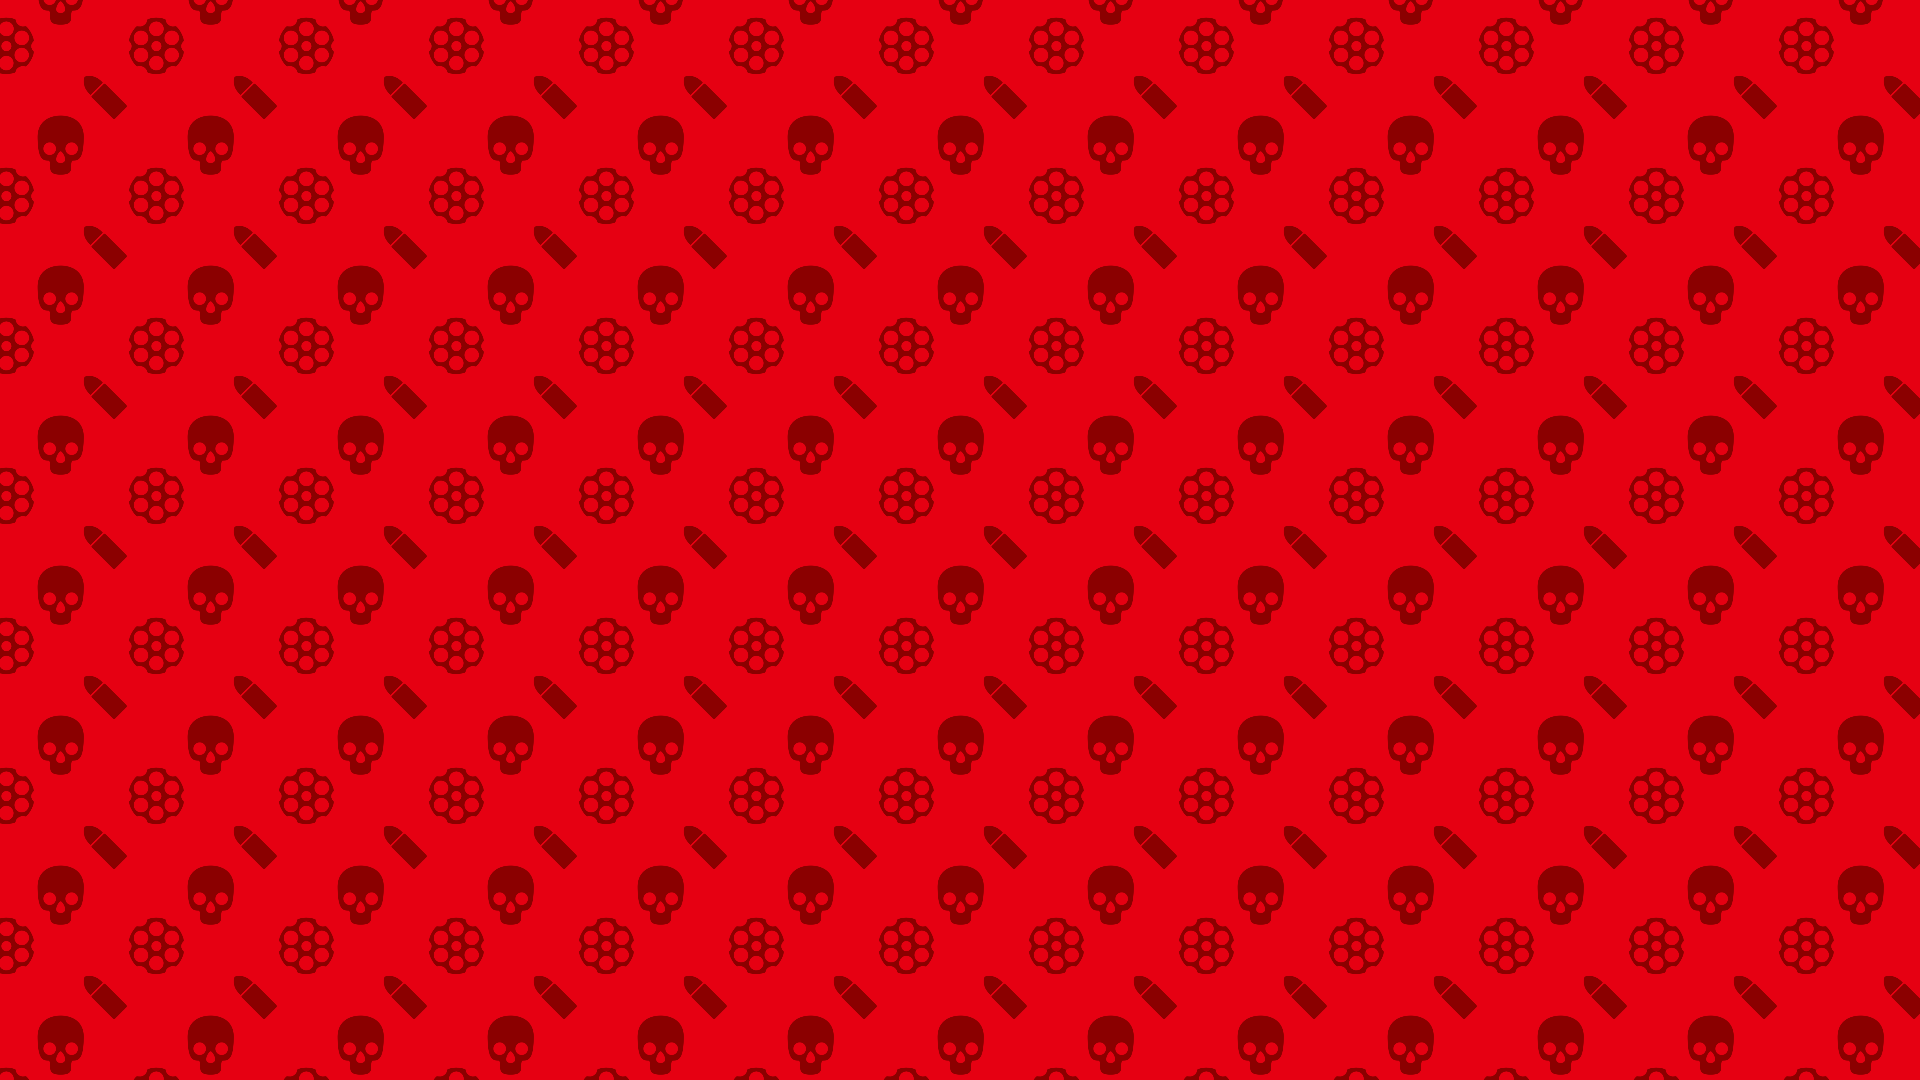
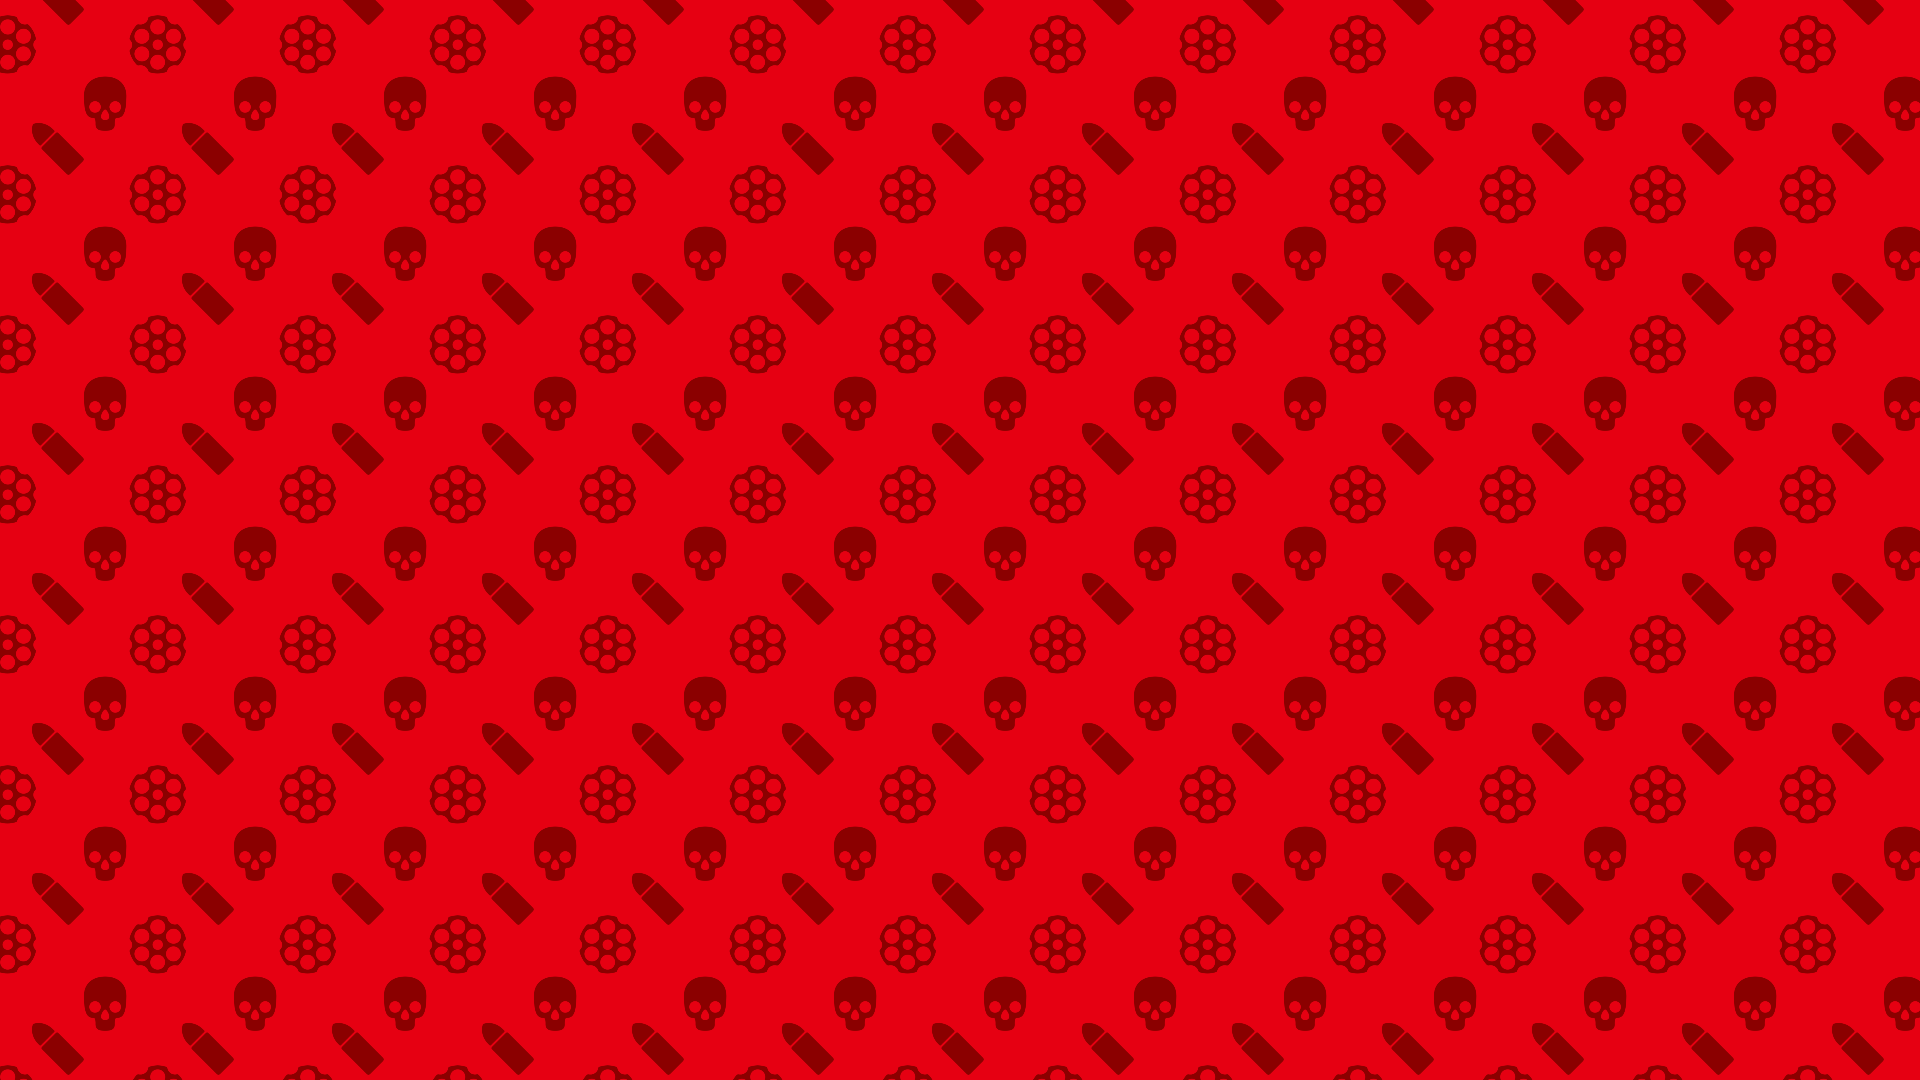
Update

diff --git a/Code/CSS/global.css b/Code/CSS/global.css
@@ -1,9 +1,8 @@
 @import url('fonts.css');
 
 /* Body */
-body, html 
+body 
 {
-    /* background: url('../../Images/Pattern.png') no-repeat center center fixed; */
     margin: 0;
     padding: 0;
     height: 100%;
@@ -11,7 +10,8 @@ body, html
 }
 
 /* The animated infinite background */
-.background {
+.background 
+{
   position: fixed;
   top: -10px;
   left: 0;
@@ -25,12 +25,15 @@ body, html
   animation: scroll-bg 30s linear infinite;
 }
 
-@keyframes scroll-bg {
-  0% {
+@keyframes scroll-bg 
+{
+  0% 
+  {
     background-position: 0 0;
   }
-  100% {
-    background-position: -2000px 2000px;
+  100% 
+  {
+    background-position: -1000px 1000px;
   }
 }
 
@@ -38,43 +41,43 @@ body, html
     /* Main page title */    
     h1 
     {
-        margin-top: 0;
-        margin-bottom: 0.3em;
+        margin-top: 0em;
+        margin-bottom: 0em;
         font-size: 64px; 
     }
     /* Section title */
     h2  
     {
-        margin-top: 0.5em;
-        margin-bottom: 0.2em;
+        margin-top: 0em;
+        margin-bottom: 0em;
         font-size: 40px;
     }
     /* Subsection title */ 
     h3 
     { 
-        margin-top: 0.5em;
-        margin-bottom: 0.2em;
+        margin-top: 0em;
+        margin-bottom: 0em;
         font-size: 32px; 
     }
     /* Smaller subsection */ 
     h4 
     {
-        margin-top: 0.5em;
-        margin-bottom: 0.2em;
+        margin-top: 0em;
+        margin-bottom: 0em;
         font-size: 24px;
     }
     /* Minor heading */
     h5 
     {
-        margin-top: 0.5em;
-        margin-bottom: 0.2em;
+        margin-top: 0em;
+        margin-bottom: 0em;
         font-size: 20px; 
     }
     /* Smallest heading */
     h6 
     {
-        margin-top: 0.5em;
-        margin-bottom: 0.2em;
+        margin-top: 0em;
+        margin-bottom: 0em;
         font-size: 16px; 
     }
 /* Header End */ 
@@ -82,8 +85,8 @@ body, html
 /* Paragraph */
 p
 {
-    margin-top: 0.5em;
-    margin-bottom: 0.5em;
+    margin-top: 0em;
+    margin-bottom: 0em;
     font-size: 16px;
 }
 
@@ -129,7 +132,7 @@ div
 {
     display: flex;
 }  
-.box 
+.block 
 {
     background-color: #fdfdfd;
     border-radius: 10px;    

diff --git a/index.html b/index.html
@@ -37,15 +37,18 @@
     <div class="background"></div>  
 
     <!-- Top -->
-    <div class="fade-image animate-on-scroll">
+    <div>
       <img class="scale" src="Images/SiteLogo.png" alt="Main logo">
     </div>
 
     <!-- Middle -->
-    <div class="fade-in-image">
+    <div>
 
       <div>
-        <div class="box">
+        <div class="block">
+          <h4 class="default_text">
+            Introduction
+          </h4>
           <p class="default_text">
             A creative studio specializing in game development and graphic design. Founded in 2025.
           </p>
@@ -53,30 +56,31 @@
       </div>
 
       <div>
-        <div class="box">
-          <h2 class="default_text">
-            ICON
-          </h2>
+        <div class="block">
+          <h4 class="default_text">
+            Icon
+          </h4>
           <img class="scale" src="Images/Favicon.png" alt="Icon"/> 
         </div>
       </div>
 
     <!-- Bottom -->
-    <div class="box">
+    <div class="block">
       <!-- Links -->
       <section>
         <p class="default_text">
           Follow us
         </p>
         <p class="default_text">
-          <a href="https://www.instagram.com/bil.semey/?hl=ru" target="_blank">Instagram</a> |
-          <a href="https://www.youtube.com/channel/UCNNFLGloKgjDjq_wm2WJ6lg" target="_blank">Youtube</a> |
-          <a href="mailto:semeybil@gmail.com">Email</a>
+          <a href="https://revolution-9.itch.io/" target="_blank">Itch.io</a> |
+          <a href="https://ru.pinterest.com/Revolution9Studio/" target="_blank">Pinterest</a> |
+          <a href="https://www.youtube.com/" target="_blank">Youtube</a> |
+          <a href="mailto:Diisisiwhjif@gmail.com">Email</a>
         </p>
       </section>
       <!-- Copyright -->
       <footer class="default_text">
-        <p>&copy; 2025 Revolution 9</p>
+        <p>&copy;2025 Revolution 9</p>
       </footer>
     </div>
 
